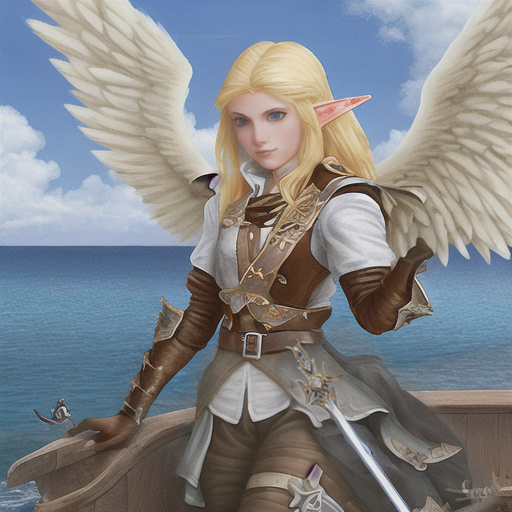
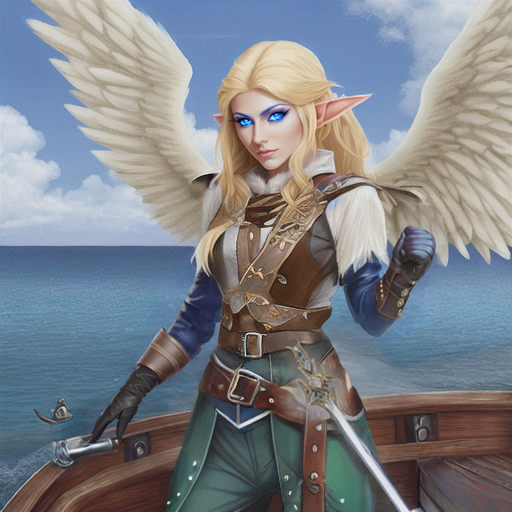
Added pictures of Illantriss and Lucy
- Added pictures of Illantriss and Lucy
- improved Faeren's picture

Changed region(s): [[0.0, 0.0625, 0.875, 1.0], [0.625, 0.6562, 1.0, 1.0]]

diff --git a/docs/player_characters/memorial/Lucy.md b/docs/player_characters/memorial/Lucy.md
@@ -5,8 +5,10 @@ Half-Elf Rogue
 Infiltrator and On-and-Off Tavern Cook
 
 :::danger RIP 2023-03-27
-Died while purging a water weird from a poisoned cistern
+Died while purging a water weird from a poisoned cistern.
 :::
+
+![Lucy staring over shoulder](/img/players/Lucy_Zala.jpg)
 
 ## Memorial
 

diff --git a/docs/player_characters/Illantriss.md b/docs/player_characters/Illantriss.md
@@ -1,3 +1,5 @@
 # Illantriss
 
 Snacks
+
+![Illantris playing a guitar lute](/img/players/Illantriss.png)
